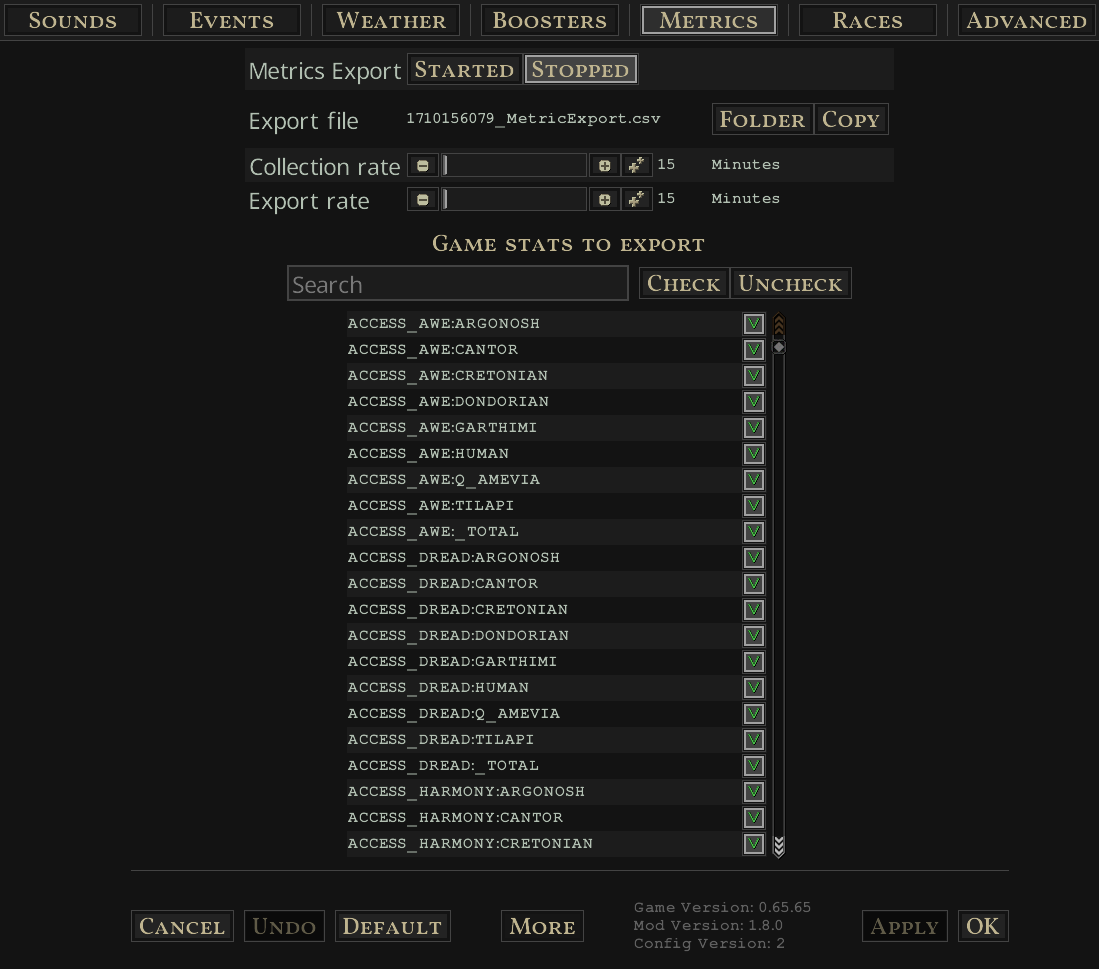
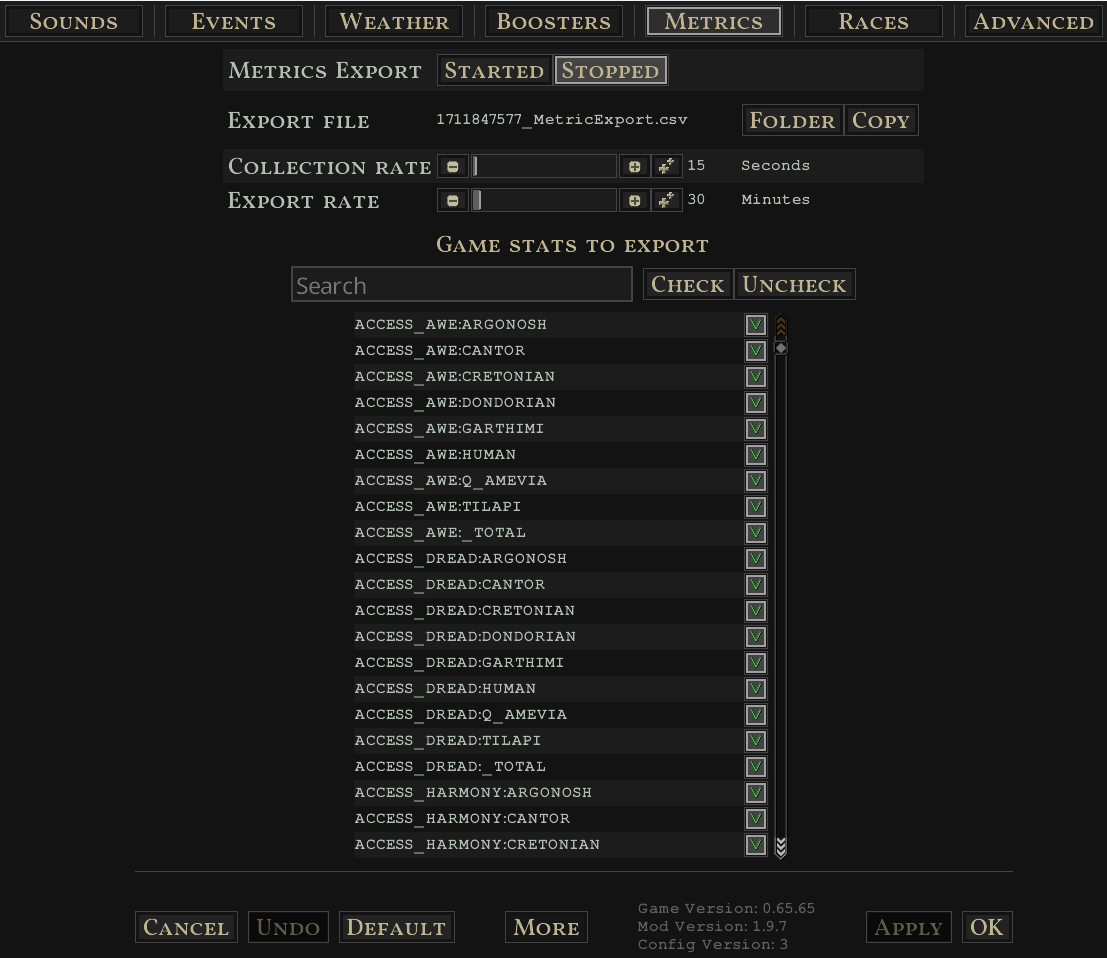
fix metrics collection rate being displayed in minutes instead of seconds; update screenshots

diff --git a/README.md b/README.md
@@ -15,7 +15,7 @@ Adds a menu with more options for the game:
 ![Events](doc/img/eventsConfig.png)
 ![Weather](doc/img/weather.png)
 ![Boosters](doc/img/boosters.png)
-![Metrics](doc/img/metricsConfig.png)
+![Metrics](doc/img/metrics.png)
 ![Races](doc/img/races.png)
 ![Advanced](doc/img/advanced.png)
 ![Backup](doc/img/backup.png)
